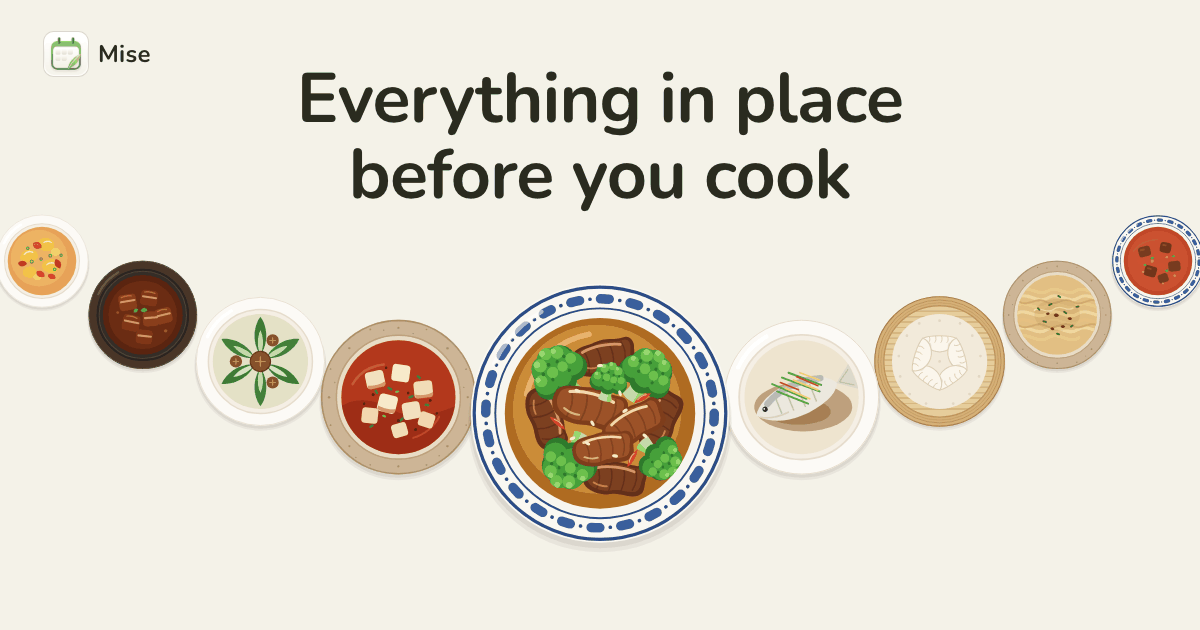
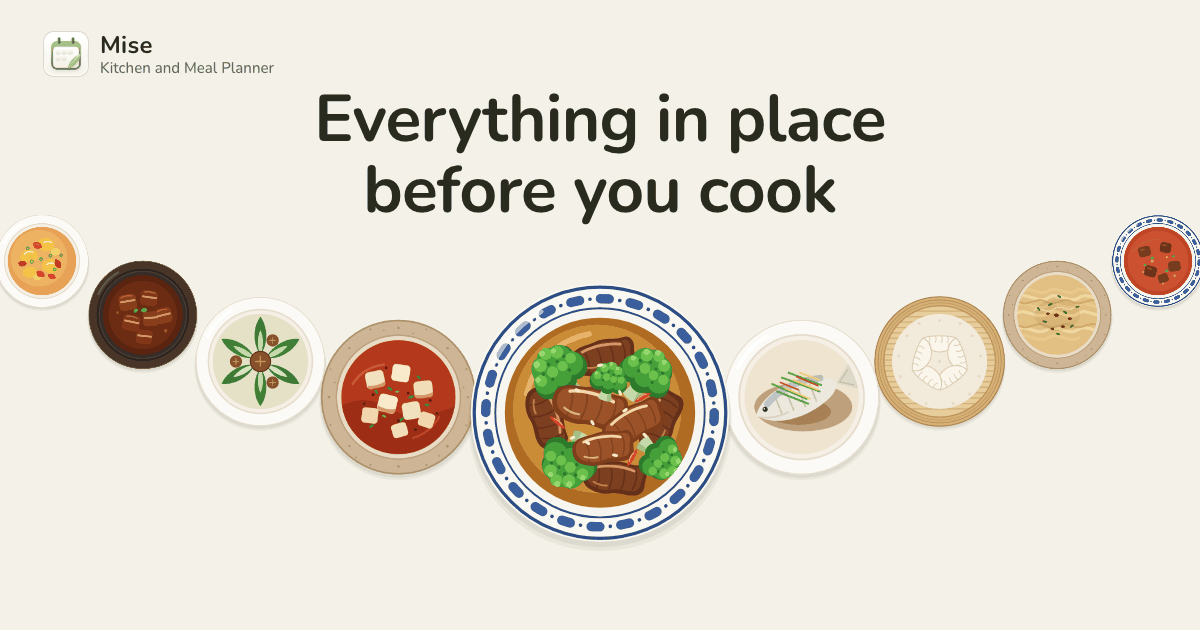
Use the app's full English name
The brand is 食序 in Chinese and Mise: Kitchen and Meal Planner in English.
The header sets the full name on two lines, keeping the colon for screen
readers, and the home page's title, the link preview and the first line of
the privacy policy use it too. Sentences and the other pages' titles keep
Mise, because a colon breaks a sentence. Chinese pages say 食序 everywhere.

The header now takes two rows from 680 wide, where the new button left its
one row without room.

diff --git a/support/index.html b/support/index.html
@@ -4,7 +4,7 @@
 <meta charset="utf-8">
 <meta name="viewport" content="width=device-width, initial-scale=1">
 <title>Support · Mise</title>
-<meta name="description" content="Help with Mise: your ingredients, recipes, meal plans, shopping lists and iCloud sync.">
+<meta name="description" content="Help with your ingredients, recipes, meal plans, shopping lists and iCloud sync in Mise.">
 <link rel="canonical" href="https://furthersea.org/mise-homepage/support/">
 <link rel="alternate" hreflang="en" href="https://furthersea.org/mise-homepage/support/">
 <link rel="alternate" hreflang="zh-Hans" href="https://furthersea.org/mise-homepage/zh/support/">
@@ -12,9 +12,9 @@
 <meta name="theme-color" content="#F4F2E8" media="(prefers-color-scheme: light)">
 <meta name="theme-color" content="#13140E" media="(prefers-color-scheme: dark)">
 <meta property="og:type" content="website">
-<meta property="og:site_name" content="Mise">
+<meta property="og:site_name" content="Mise: Kitchen and Meal Planner">
 <meta property="og:title" content="Mise support">
-<meta property="og:description" content="Help with Mise: your ingredients, recipes, meal plans, shopping lists and iCloud sync.">
+<meta property="og:description" content="Help with your ingredients, recipes, meal plans, shopping lists and iCloud sync in Mise.">
 <meta property="og:url" content="https://furthersea.org/mise-homepage/support/">
 <meta property="og:image" content="https://furthersea.org/mise-homepage/assets/og-en.png">
 <meta property="og:locale" content="en_US">
@@ -30,7 +30,7 @@
 <div class="site">
 
 <header class="wrap top">
-  <a class="brand" href="../"><img class="app-icon icon-l" src="../assets/icon/icon-256.png" alt="" width="34" height="34" loading="lazy"><img class="app-icon icon-d" src="../assets/icon/icon-dark-256.png" alt="" width="34" height="34" loading="lazy"><span>Mise</span></a>
+  <a class="brand" href="../"><img class="app-icon icon-l" src="../assets/icon/icon-256.png" alt="" width="34" height="34" loading="lazy"><img class="app-icon icon-d" src="../assets/icon/icon-dark-256.png" alt="" width="34" height="34" loading="lazy"><span class="name"><span>Mise<span class="vh">: </span></span><span class="desc">Kitchen and Meal Planner</span></span></a>
   <nav class="nav" aria-label="Main"><a href="../#features">Features</a><a href="../privacy/">Privacy</a><a href="./" aria-current="page">Support</a></nav>
   <button class="theme" type="button" aria-label="Dark mode" aria-pressed="false" title="Dark mode"><svg class="i moon" viewBox="0 0 24 24" aria-hidden="true"><path d="M20.5 14.2A8.5 8.5 0 0 1 9.8 3.5a8.5 8.5 0 1 0 10.7 10.7Z"/></svg><svg class="i sun" viewBox="0 0 24 24" aria-hidden="true"><circle cx="12" cy="12" r="4"/><path d="M12 3v2M12 19v2M5.6 5.6 7 7M17 17l1.4 1.4M3 12h2M19 12h2M5.6 18.4 7 17M17 7l1.4-1.4"/></svg></button>
   <div class="seg lang" role="group" aria-label="Language"><a class="on" href="./" aria-current="true" data-lang="en">EN</a><a href="../zh/support/" lang="zh-Hans" hreflang="zh-Hans" data-lang="zh">中文</a></div>
@@ -39,7 +39,7 @@
 <main class="wrap">
 <div class="doc-head">
   <h1>Support</h1>
-  <p>Help with Mise / 食序: your ingredients, recipes, meal plans, shopping lists and iCloud sync.</p>
+  <p>Help with your ingredients, recipes, meal plans, shopping lists and iCloud sync in Mise.</p>
 </div>
 <div class="help">
 <section>

diff --git a/privacy/index.html b/privacy/index.html
@@ -12,7 +12,7 @@
 <meta name="theme-color" content="#F4F2E8" media="(prefers-color-scheme: light)">
 <meta name="theme-color" content="#13140E" media="(prefers-color-scheme: dark)">
 <meta property="og:type" content="article">
-<meta property="og:site_name" content="Mise">
+<meta property="og:site_name" content="Mise: Kitchen and Meal Planner">
 <meta property="og:title" content="Mise privacy policy">
 <meta property="og:description" content="What Mise stores, how iCloud sync works and what usage statistics it sends to Google Analytics.">
 <meta property="og:url" content="https://furthersea.org/mise-homepage/privacy/">
@@ -30,7 +30,7 @@
 <div class="site">
 
 <header class="wrap top">
-  <a class="brand" href="../"><img class="app-icon icon-l" src="../assets/icon/icon-256.png" alt="" width="34" height="34" loading="lazy"><img class="app-icon icon-d" src="../assets/icon/icon-dark-256.png" alt="" width="34" height="34" loading="lazy"><span>Mise</span></a>
+  <a class="brand" href="../"><img class="app-icon icon-l" src="../assets/icon/icon-256.png" alt="" width="34" height="34" loading="lazy"><img class="app-icon icon-d" src="../assets/icon/icon-dark-256.png" alt="" width="34" height="34" loading="lazy"><span class="name"><span>Mise<span class="vh">: </span></span><span class="desc">Kitchen and Meal Planner</span></span></a>
   <nav class="nav" aria-label="Main"><a href="../#features">Features</a><a href="./" aria-current="page">Privacy</a><a href="../support/">Support</a></nav>
   <button class="theme" type="button" aria-label="Dark mode" aria-pressed="false" title="Dark mode"><svg class="i moon" viewBox="0 0 24 24" aria-hidden="true"><path d="M20.5 14.2A8.5 8.5 0 0 1 9.8 3.5a8.5 8.5 0 1 0 10.7 10.7Z"/></svg><svg class="i sun" viewBox="0 0 24 24" aria-hidden="true"><circle cx="12" cy="12" r="4"/><path d="M12 3v2M12 19v2M5.6 5.6 7 7M17 17l1.4 1.4M3 12h2M19 12h2M5.6 18.4 7 17M17 7l1.4-1.4"/></svg></button>
   <div class="seg lang" role="group" aria-label="Language"><a class="on" href="./" aria-current="true" data-lang="en">EN</a><a href="../zh/privacy/" lang="zh-Hans" hreflang="zh-Hans" data-lang="zh">中文</a></div>
@@ -40,7 +40,7 @@
 <div class="doc-head">
   <span class="eyebrow">Effective November 6, 2026</span>
   <h1>Privacy Policy</h1>
-  <p>Mise / 食序 is a personal kitchen and meal-planning app. This policy explains what the app stores, how iCloud sync works and what usage statistics it sends to Google Analytics. It covers version 1.1 and later. Earlier versions send no usage statistics.</p>
+  <p>Mise: Kitchen and Meal Planner (<span lang="zh-Hans">食序</span> in Chinese) is a personal kitchen and meal-planning app. This policy explains what the app stores, how iCloud sync works and what usage statistics it sends to Google Analytics. It covers version 1.1 and later. Earlier versions send no usage statistics.</p>
 </div>
 <ul class="short" aria-label="The short version">
   <li><svg class="i" viewBox="0 0 24 24" aria-hidden="true"><path d="M5 12.5l4.5 4.5L19 7.5"/></svg>No account or sign-in</li>

diff --git a/index.html b/index.html
@@ -3,7 +3,7 @@
 <head>
 <meta charset="utf-8">
 <meta name="viewport" content="width=device-width, initial-scale=1">
-<title>Mise: kitchen and meal planning for iPhone</title>
+<title>Mise: Kitchen and Meal Planner</title>
 <meta name="description" content="Save the dishes you cook, plan the days ahead and get a shopping list with the amounts already added up. Free for iPhone.">
 <link rel="canonical" href="https://furthersea.org/mise-homepage/">
 <link rel="alternate" hreflang="en" href="https://furthersea.org/mise-homepage/">
@@ -12,9 +12,9 @@
 <meta name="theme-color" content="#F4F2E8" media="(prefers-color-scheme: light)">
 <meta name="theme-color" content="#13140E" media="(prefers-color-scheme: dark)">
 <meta property="og:type" content="website">
-<meta property="og:site_name" content="Mise">
-<meta property="og:title" content="Mise: everything in place before you cook">
-<meta property="og:description" content="Save the dishes you cook, plan the days ahead and get a shopping list with the amounts already added up.">
+<meta property="og:site_name" content="Mise: Kitchen and Meal Planner">
+<meta property="og:title" content="Mise: Kitchen and Meal Planner">
+<meta property="og:description" content="Everything in place before you cook. Save the dishes you cook, plan the days ahead and get a shopping list with the amounts already added up.">
 <meta property="og:url" content="https://furthersea.org/mise-homepage/">
 <meta property="og:image" content="https://furthersea.org/mise-homepage/assets/og-en.png">
 <meta property="og:locale" content="en_US">
@@ -31,7 +31,7 @@
 <div class="site">
 
 <header class="wrap top">
-  <a class="brand" href="./"><img class="app-icon icon-l" src="assets/icon/icon-256.png" alt="" width="34" height="34" loading="lazy"><img class="app-icon icon-d" src="assets/icon/icon-dark-256.png" alt="" width="34" height="34" loading="lazy"><span>Mise</span></a>
+  <a class="brand" href="./"><img class="app-icon icon-l" src="assets/icon/icon-256.png" alt="" width="34" height="34" loading="lazy"><img class="app-icon icon-d" src="assets/icon/icon-dark-256.png" alt="" width="34" height="34" loading="lazy"><span class="name"><span>Mise<span class="vh">: </span></span><span class="desc">Kitchen and Meal Planner</span></span></a>
   <nav class="nav" aria-label="Main"><a href="#features">Features</a><a href="privacy/">Privacy</a><a href="support/">Support</a></nav>
   <button class="theme" type="button" aria-label="Dark mode" aria-pressed="false" title="Dark mode"><svg class="i moon" viewBox="0 0 24 24" aria-hidden="true"><path d="M20.5 14.2A8.5 8.5 0 0 1 9.8 3.5a8.5 8.5 0 1 0 10.7 10.7Z"/></svg><svg class="i sun" viewBox="0 0 24 24" aria-hidden="true"><circle cx="12" cy="12" r="4"/><path d="M12 3v2M12 19v2M5.6 5.6 7 7M17 17l1.4 1.4M3 12h2M19 12h2M5.6 18.4 7 17M17 7l1.4-1.4"/></svg></button>
   <div class="seg lang" role="group" aria-label="Language"><a class="on" href="./" aria-current="true" data-lang="en">EN</a><a href="zh/" lang="zh-Hans" hreflang="zh-Hans" data-lang="zh">中文</a></div>

diff --git a/assets/site.css b/assets/site.css
@@ -158,6 +158,8 @@ body { margin: 0; }
 .wrap { width: 100%; max-width: 1184px; margin: 0 auto; padding: 0 32px; }
 .top { display: flex; align-items: center; gap: 8px; padding-top: 16px; padding-bottom: 16px; }
 .brand { display: inline-flex; align-items: center; gap: 10px; height: 44px; margin-right: auto; font-size: 20px; font-weight: 700; letter-spacing: 0.01em; }
+.name { display: grid; gap: 1px; line-height: 1.12; }
+.name .desc { font-size: 12.5px; font-weight: 500; letter-spacing: 0; color: var(--ink2); white-space: nowrap; }
 .app-icon { border-radius: 22.37%; box-shadow: 0 0 0 1px var(--line); }
 .icon-l { display: var(--only-light); }
 .icon-d { display: var(--only-dark); }
@@ -388,11 +390,15 @@ body { margin: 0; }
   .doc { grid-template-columns: minmax(0, 1fr); }
   .toc { display: none; }
 }
-@container site (max-width: 640px) {
-  .wrap { padding: 0 20px; }
+/* The header takes two rows before its one row would run out of room. */
+@container site (max-width: 680px) {
   .top { flex-wrap: wrap; padding-top: 8px; padding-bottom: 0; }
   .brand { font-size: 19px; }
   .nav { order: 3; width: 100%; margin: 0 0 0 -14px; }
+  .theme, .lang { margin-left: 0; }
+}
+@container site (max-width: 640px) {
+  .wrap { padding: 0 20px; }
   .hero { padding-top: 16px; }
   .hero h1 { font-size: clamp(33px, 10.2cqw, 52px); }
   .stage { --d: 170px; margin-top: 44px; }
@@ -409,6 +415,12 @@ body { margin: 0; }
   .short { grid-template-columns: minmax(0, 1fr); padding: 6px 18px; }
   .help { grid-template-columns: minmax(0, 1fr); }
   .where td + td, .where th + th { width: 72px; }
+}
+/* The name, the button and the language switch stay on one row on every phone: the name takes what's left. */
+@container site (max-width: 389px) {
+  .brand { flex: 1 1 0; min-width: 0; height: auto; min-height: 44px; gap: 8px; }
+  .name .desc { font-size: 12px; white-space: normal; }
+  .lang > * { padding: 0 9px; }
 }
 @container site (max-width: 359px) { .dish-name { font-size: 19px; } }
 /* Phones narrower than 390: the whole card shrinks, and what's inside keeps its layout. */

diff --git a/zh/index.html b/zh/index.html
@@ -13,7 +13,7 @@
 <meta name="theme-color" content="#13140E" media="(prefers-color-scheme: dark)">
 <meta property="og:type" content="website">
 <meta property="og:site_name" content="食序">
-<meta property="og:title" content="食序：开火之前 一切就位">
+<meta property="og:title" content="食序：开火之前，一切就位">
 <meta property="og:description" content="把拿手菜排进接下来几天，要买多少清单已经算好。">
 <meta property="og:url" content="https://furthersea.org/mise-homepage/zh/">
 <meta property="og:image" content="https://furthersea.org/mise-homepage/assets/og-zh.png">
@@ -81,7 +81,7 @@
       <li><b>记录菜品照片</b><span>拍一张或从相册选一张，记下这道菜做出来的样子。</span></li>
       <li><b>选盘子样式</b><span>白瓷、青花、粗陶、黑釉、竹笼，给每道菜配一只盘子。</span><div class="mini" aria-hidden="true"><img src="../assets/plates/baici.svg" alt="" width="34" height="35" loading="lazy"><img src="../assets/plates/qinghua.svg" alt="" width="34" height="35" loading="lazy"><img src="../assets/plates/cutao.svg" alt="" width="34" height="35" loading="lazy"><img src="../assets/plates/heiyou.svg" alt="" width="34" height="35" loading="lazy"><img src="../assets/plates/zhenglong.svg" alt="" width="34" height="35" loading="lazy"></div></li>
       <li><b>分类和搜索</b><span>用自己的分类整理食谱，按菜名或拼音首字母都能搜到。</span></li>
-      <li><b>转一转挑菜</b><span>不知道吃什么，不如直接转一转，让 Mise 替你挑一道。</span></li>
+      <li><b>转一转挑菜</b><span>不知道吃什么，不如直接转一转，让食序替你挑一道。</span></li>
     </ul>
   </div>
   <div class="panel" role="img" aria-label="食谱库的网格，一只只盘子按做得最多排">

diff --git a/zh/privacy/index.html b/zh/privacy/index.html
@@ -39,7 +39,7 @@
 <div class="doc-head">
   <span class="eyebrow">生效日期：2026 年 11 月 6 日</span>
   <h1>隐私政策</h1>
-  <p>食序 / Mise 是一款个人厨房和餐食计划 App。这份政策说明 App 保存什么、iCloud 同步怎么工作，以及它发给 Google Analytics 的使用统计里有什么。内容适用于 1.1 及以后的版本；更早的版本不发送使用统计。</p>
+  <p>食序（英文名 <span lang="en">Mise: Kitchen and Meal Planner</span>）是一款个人厨房和餐食计划 App。这份政策说明 App 保存什么、iCloud 同步怎么工作，以及它发给 Google Analytics 的使用统计里有什么。内容适用于 1.1 及以后的版本；更早的版本不发送使用统计。</p>
 </div>
 <ul class="short" aria-label="简短版">
   <li><svg class="i" viewBox="0 0 24 24" aria-hidden="true"><path d="M5 12.5l4.5 4.5L19 7.5"/></svg>没有账号，不用登录</li>

diff --git a/zh/support/index.html b/zh/support/index.html
@@ -38,7 +38,7 @@
 <main class="wrap">
 <div class="doc-head">
   <h1>支持</h1>
-  <p>食序 / Mise 的使用帮助：食材、食谱、餐食计划、采购清单和 iCloud 同步。</p>
+  <p>食序的使用帮助：食材、食谱、餐食计划、采购清单和 iCloud 同步。</p>
 </div>
 <div class="help">
 <section>

diff --git a/README.md b/README.md
@@ -1,6 +1,6 @@
 # 食序 Mise website
 
-The website of Mise, a kitchen and meal-planning app for iPhone: home, privacy policy and support, in English and Chinese. It's plain HTML, CSS and a little JavaScript with no build step. GitHub Pages serves the files as they are from the `main` branch.
+The website of Mise: Kitchen and Meal Planner (食序 in Chinese), an app for iPhone: home, privacy policy and support, in English and Chinese. It's plain HTML, CSS and a little JavaScript with no build step. GitHub Pages serves the files as they are from the `main` branch.
 
 | | English | Chinese |
 | --- | --- | --- |
@@ -11,6 +11,10 @@ The website of Mise, a kitchen and meal-planning app for iPhone: home, privacy p
 `assets/site.css` holds the styles. Its colors, type and components come from the app (Design Direction in the app repo's `agents.md`). `assets/site.js` remembers the language and the light or dark choice, and runs the plate palette on the home page: every plate's place comes from one number, so moving, swiping and spinning all glide along the arc. English is the default: a visitor who picks Chinese is sent to the Chinese page from then on, and the choice stays in that browser.
 
 To preview, serve the folder with any static server, for example `python3 -m http.server`.
+
+## Names
+
+The app is `食序` in Chinese and `Mise: Kitchen and Meal Planner` in English. The full name is for where the name stands as a title: the home page's `<title>`, `og:site_name` and `og:title`, the link preview image, the first line of the privacy policy, and the page header, which sets it on two lines with the colon kept for screen readers. In a sentence, and in the other pages' titles, it's `Mise`, because a colon breaks a sentence. Chinese pages say `食序` everywhere; only the privacy policy's first line names the English too. The slogans are `Everything in place before you cook` and `开火之前，一切就位`.
 
 ## Changing text
 
